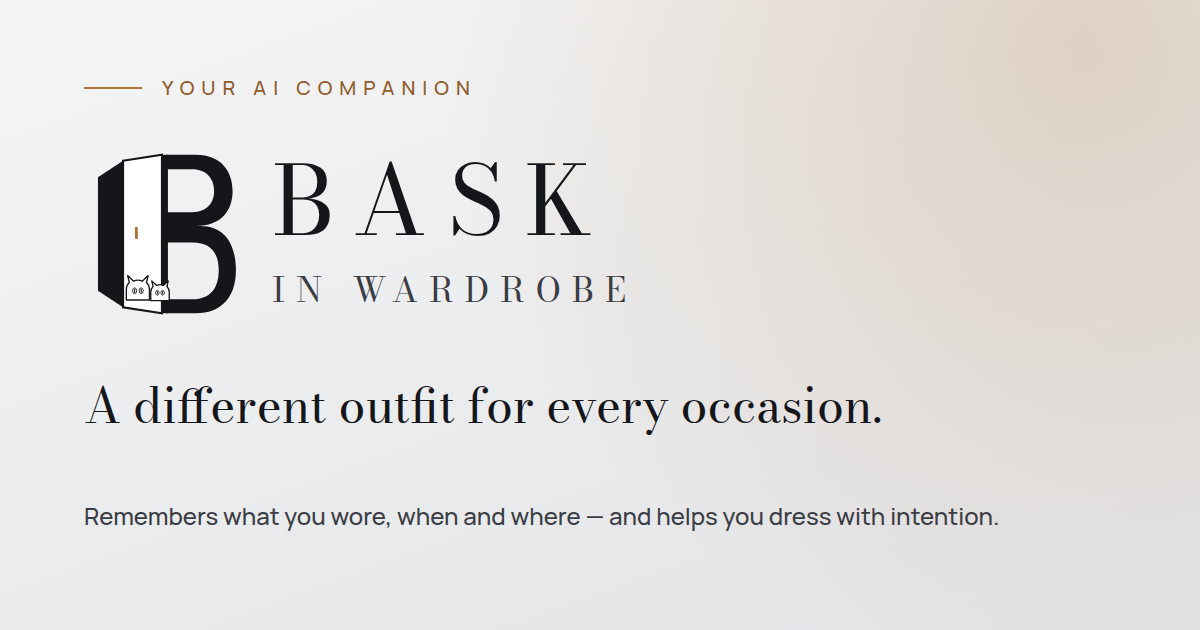
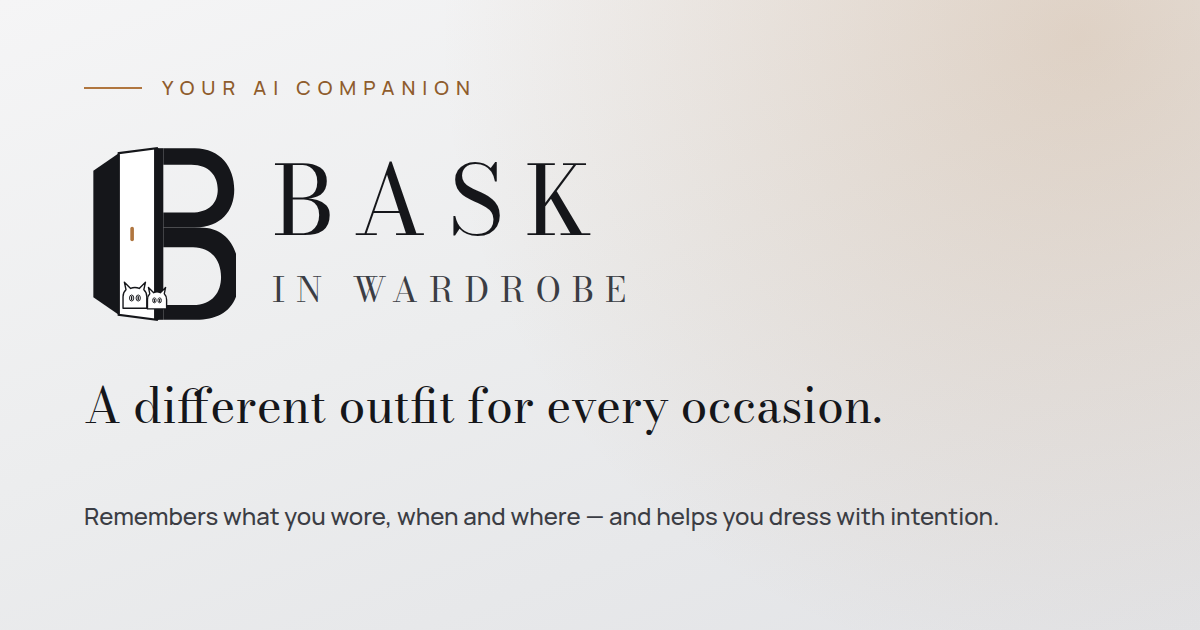
Use only mark and lockup PNG brand assets
Remove composed header wordmark and SVG mark; site logos are solely logo-mark.png and logo-lockup.png.

Changed region(s): [[0.0617, 0.2111, 0.2158, 0.5127]]

diff --git a/components/LogoMark.tsx b/components/LogoMark.tsx
@@ -6,17 +6,18 @@ type LogoProps = {
   title?: string;
 };
 
-const markSrc = `${basePath}/brand/logo-mark.svg`;
+/** Official mark only — door-B with peeking cats. */
+const markSrc = `${basePath}/brand/logo-mark.png`;
+/** Official lockup only — mark + BASK / IN WARDROBE. */
 const lockupSrc = `${basePath}/brand/logo-lockup.png`;
 
 /**
- * Official Bask monogram (door-B with peeking cats).
- * One of two brand assets — compact placements only.
+ * Official Bask monogram image (one of two brand assets).
  */
 export function LogoMark({ className, title = "Bask in Wardrobe" }: LogoProps) {
   const decorative = title === "";
   return (
-    // eslint-disable-next-line @next/next/no-img-element -- brand asset from /public
+    // eslint-disable-next-line @next/next/no-img-element -- brand PNG from /public
     <img
       src={markSrc}
       alt={decorative ? "" : title}
@@ -27,18 +28,17 @@ export function LogoMark({ className, title = "Bask in Wardrobe" }: LogoProps) {
   );
 }
 
-/** Compact glyph — same official mark. */
-export function LogoGlyph({ className, title = "" }: LogoProps) {
-  return <LogoMark className={className} title={title} />;
+/** Compact placements — same official mark image. */
+export function LogoGlyph(props: LogoProps) {
+  return <LogoMark {...props} title={props.title ?? ""} />;
 }
 
 /**
- * Official full lockup: mark + BASK / IN WARDROBE + copper rule.
- * Second of two brand assets — hero and footer.
+ * Official full lockup image (second of two brand assets).
  */
 export function LogoLockup({ className, title = "Bask in Wardrobe" }: LogoProps) {
   return (
-    // eslint-disable-next-line @next/next/no-img-element -- brand asset from /public
+    // eslint-disable-next-line @next/next/no-img-element -- brand PNG from /public
     <img src={lockupSrc} alt={title} className={className} draggable={false} />
   );
 }

diff --git a/components/Header.tsx b/components/Header.tsx
@@ -1,17 +1,11 @@
-import { LogoGlyph } from "@/components/LogoMark";
+import { LogoMark } from "@/components/LogoMark";
 
 export function Header() {
   return (
     <header className="sticky top-0 z-50 border-b border-line/70 bg-bg/75 backdrop-blur-md">
       <div className="mx-auto flex h-16 max-w-6xl items-center justify-between px-6">
-        <a href="#top" className="flex items-center gap-3" aria-label="Bask in Wardrobe, back to top">
-          <LogoGlyph className="h-8 w-auto" />
-          <span className="font-display text-[13px] leading-none tracking-[0.3em] text-ink">
-            BASK
-            <span className="ml-2.5 hidden text-[9px] tracking-[0.36em] text-muted sm:inline">
-              IN WARDROBE
-            </span>
-          </span>
+        <a href="#top" className="flex items-center" aria-label="Bask in Wardrobe, back to top">
+          <LogoMark className="h-10 w-auto" />
         </a>
         <a
           href="#join"
